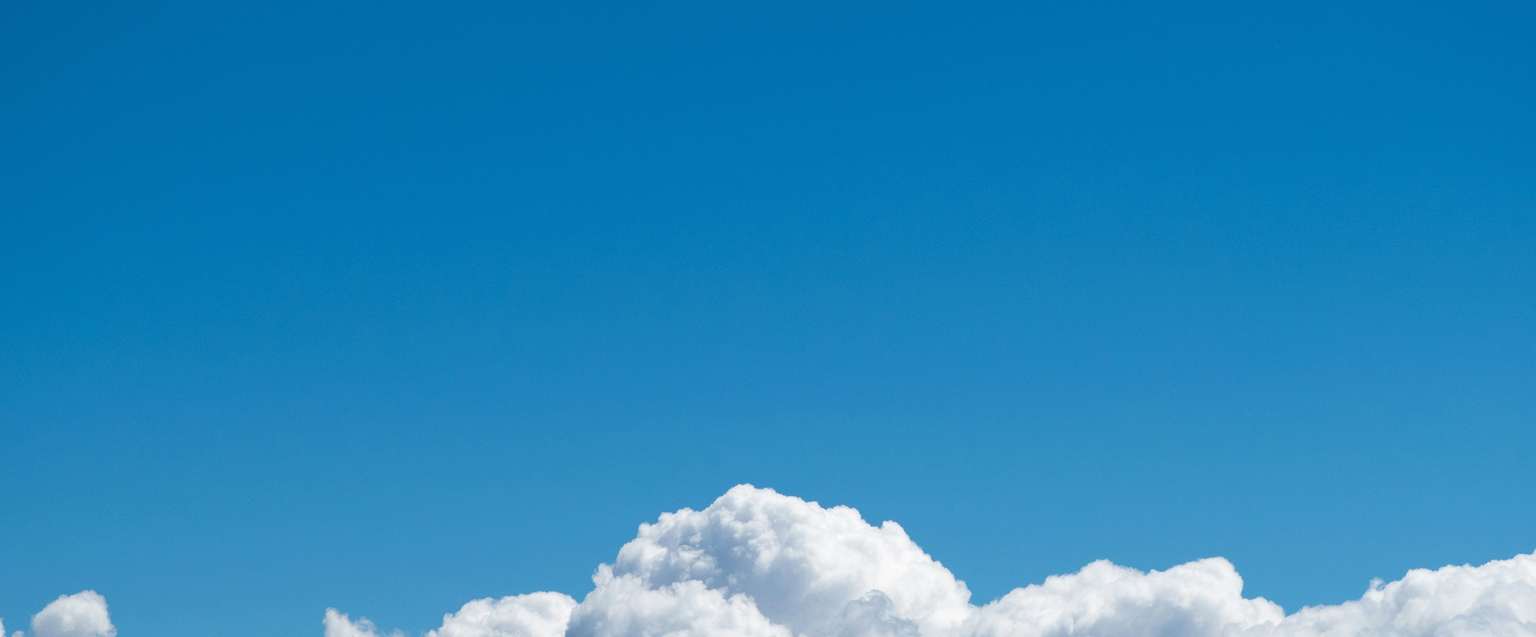
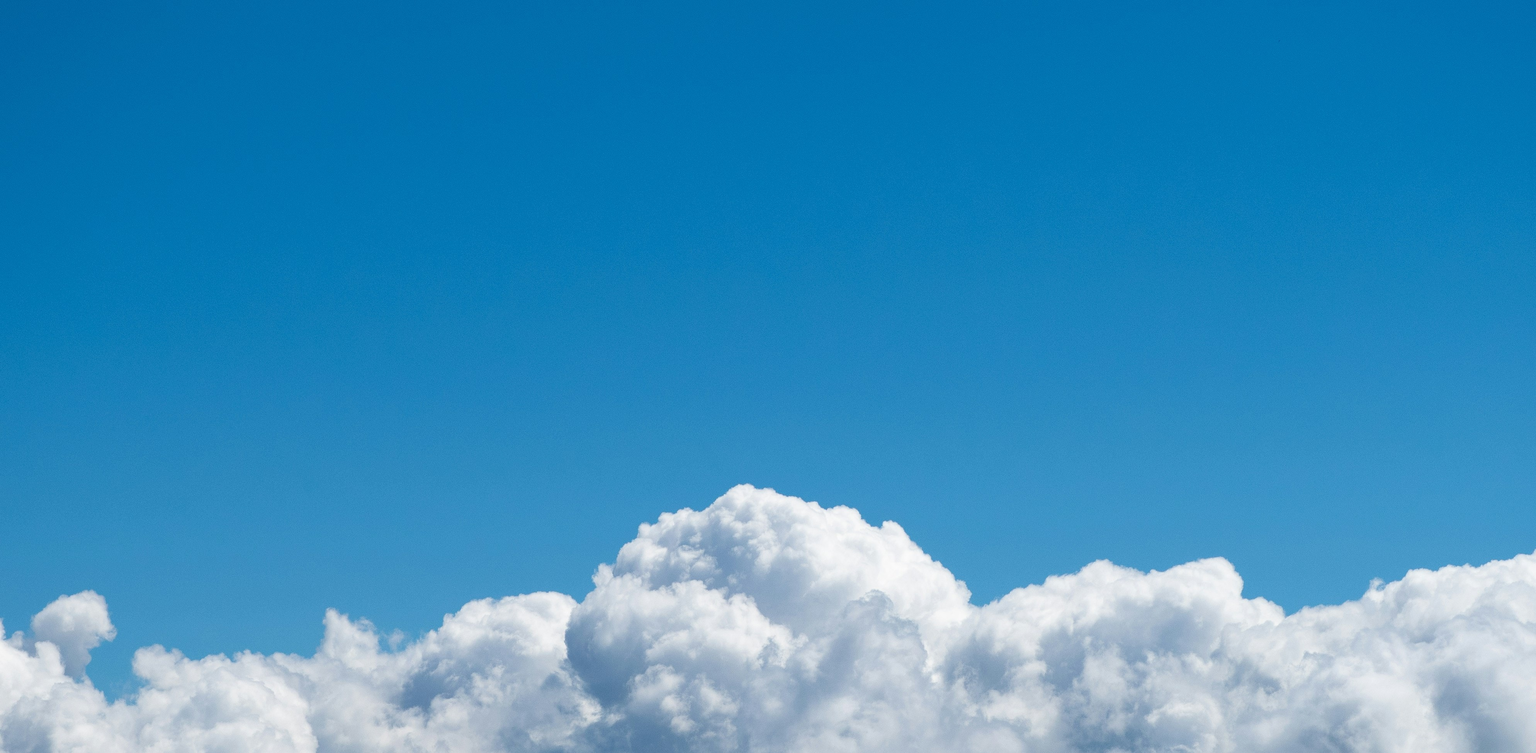
feat(hero): elevate cloud placement and update hero image to 1950px height

Changed region(s): [[0.0, 0.6182, 1.0, 1.0], [0.0936, 0.5255, 0.1247, 0.5564], [0.0312, 0.4945, 0.0624, 0.5255]]

diff --git a/src/components/sections/Hero.tsx b/src/components/sections/Hero.tsx
@@ -7,13 +7,13 @@ import { MediaImage } from "@/components/ui/MediaImage";
 import { HeroParallax } from "./HeroParallax";
 
 // Photo behind the hero. null leaves the hero on the plain page background.
-const HERO_PHOTO: string | null = "/hero/hero-clouds.jpg";
+const HERO_PHOTO: string | null = "/hero/hero-clouds-v2.jpg";
 
 // A 24px copy of HERO_PHOTO, inlined so the sky paints with the HTML while the
 // full photo is still on its way (and the white copy is never on bare white).
 // Regenerate it whenever the photo changes; null skips the placeholder.
 const HERO_BLUR: string | null =
[2 lines of base64/hex data omitted]
 
 /** Server component — no JS on the critical path. */
 export function Hero() {
